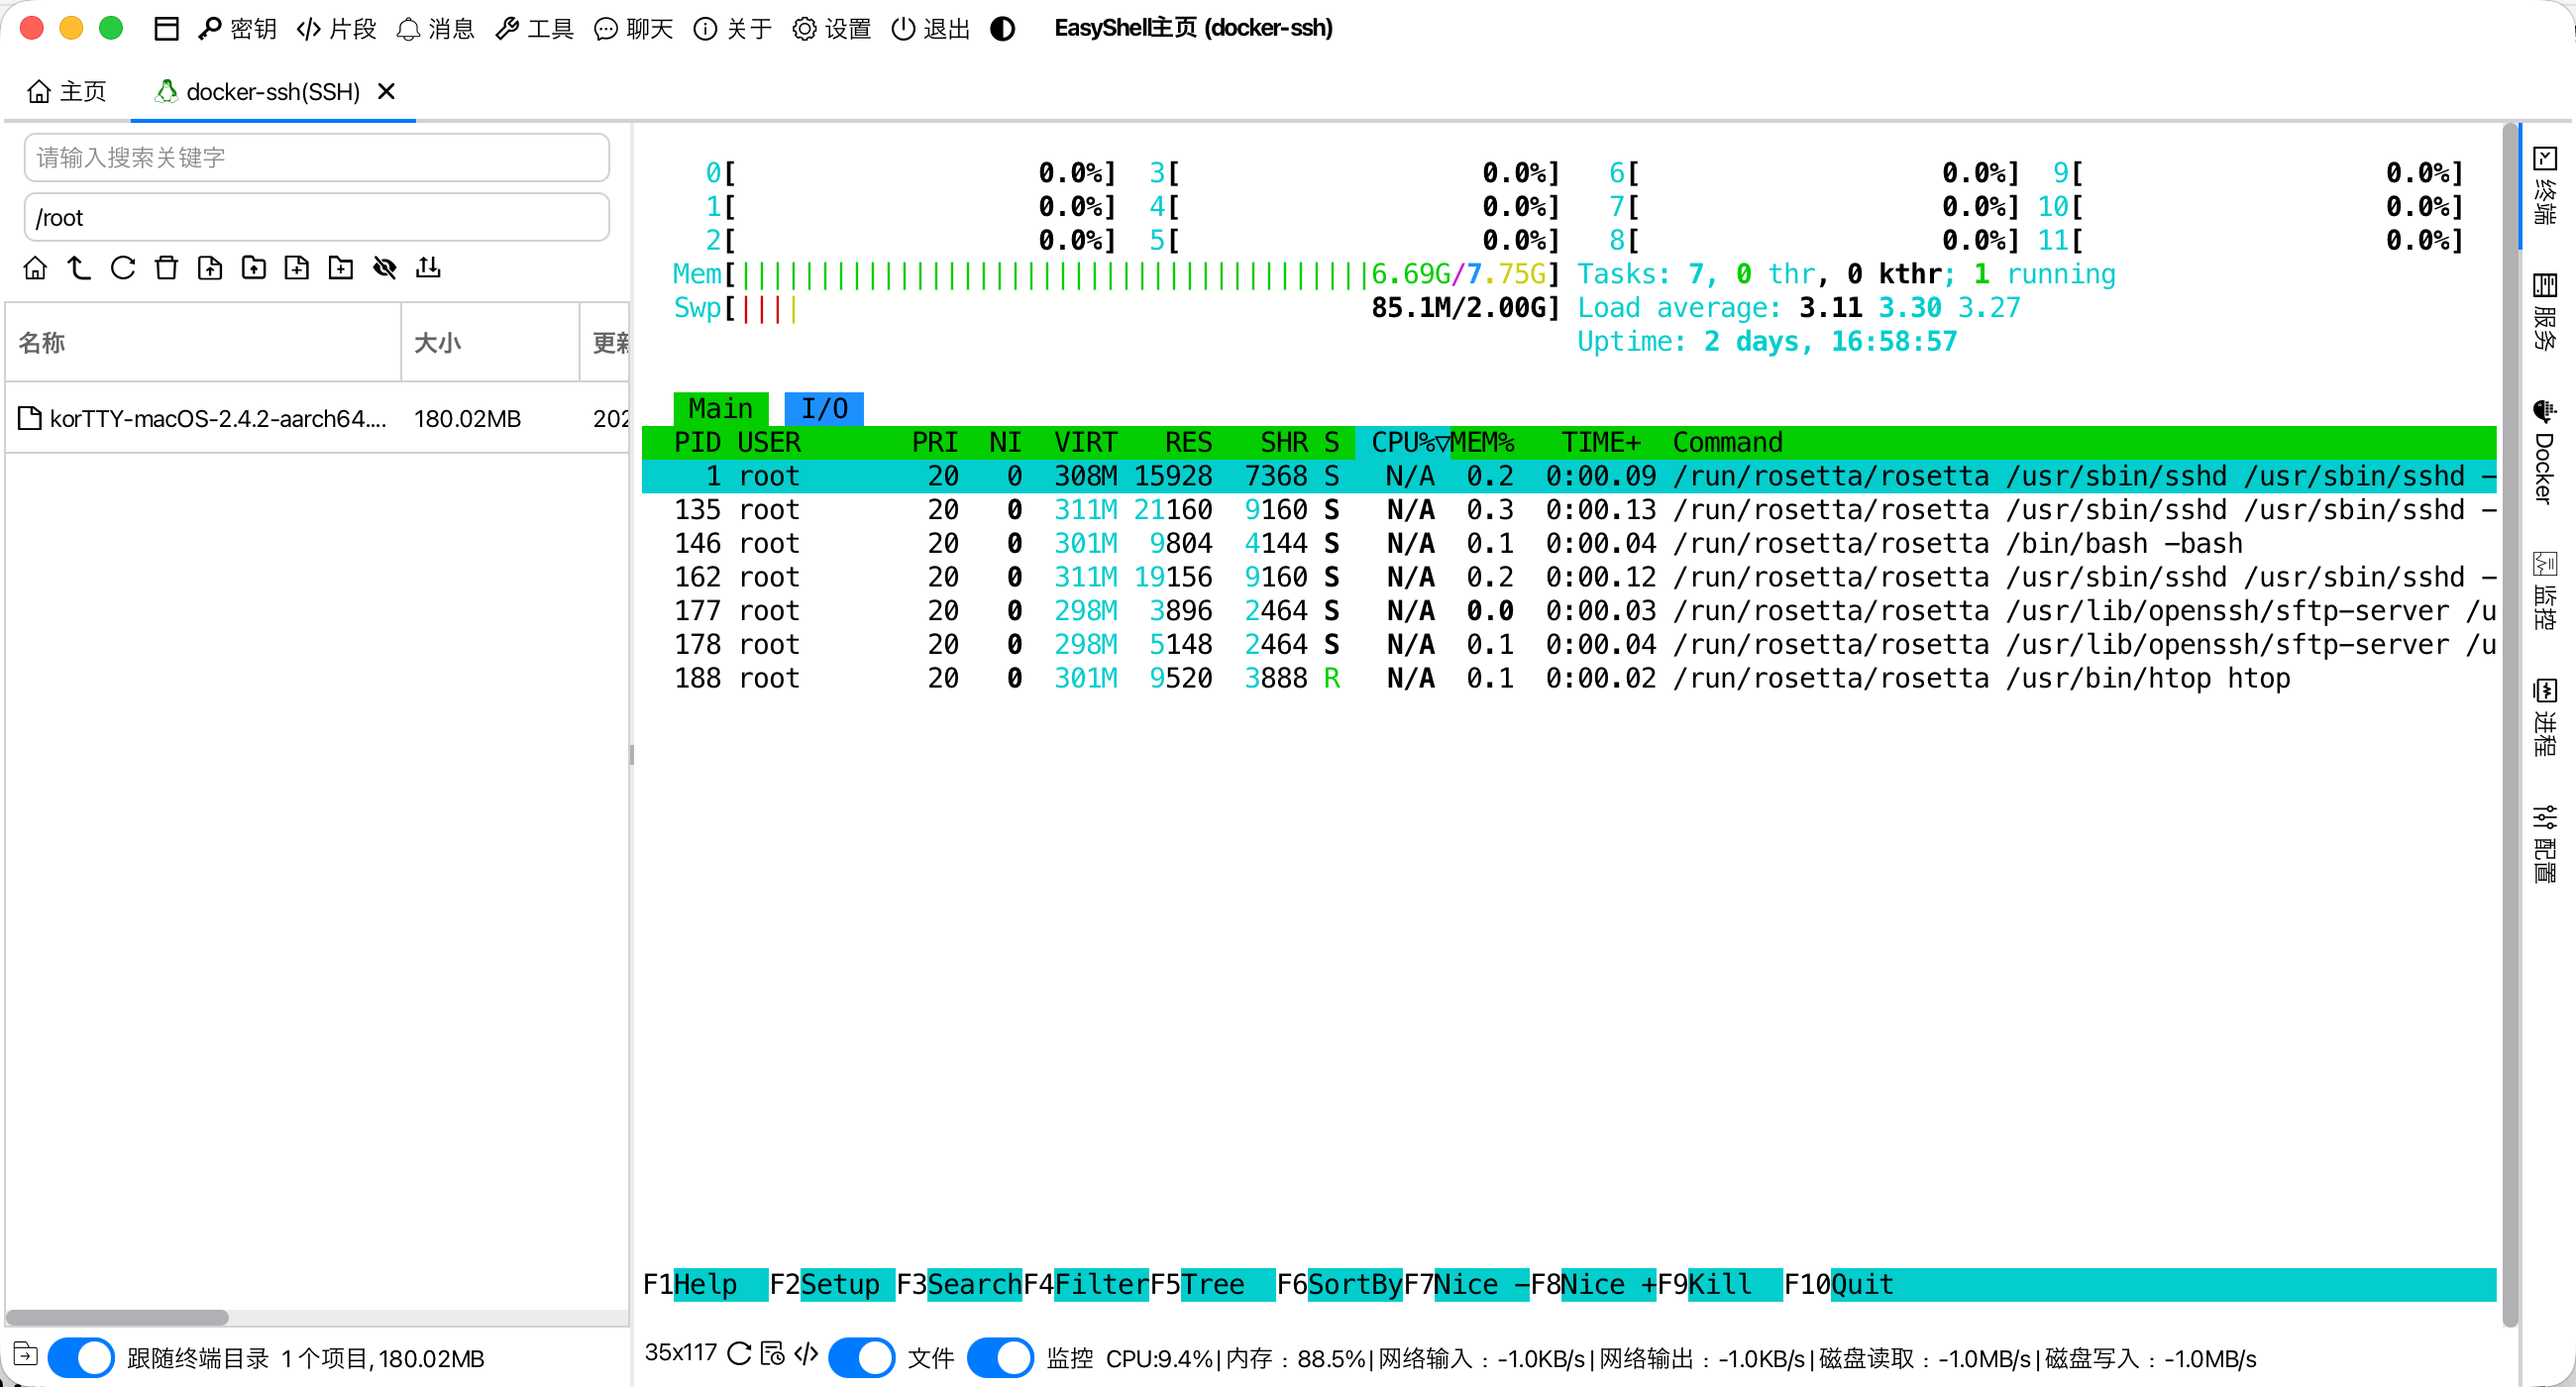
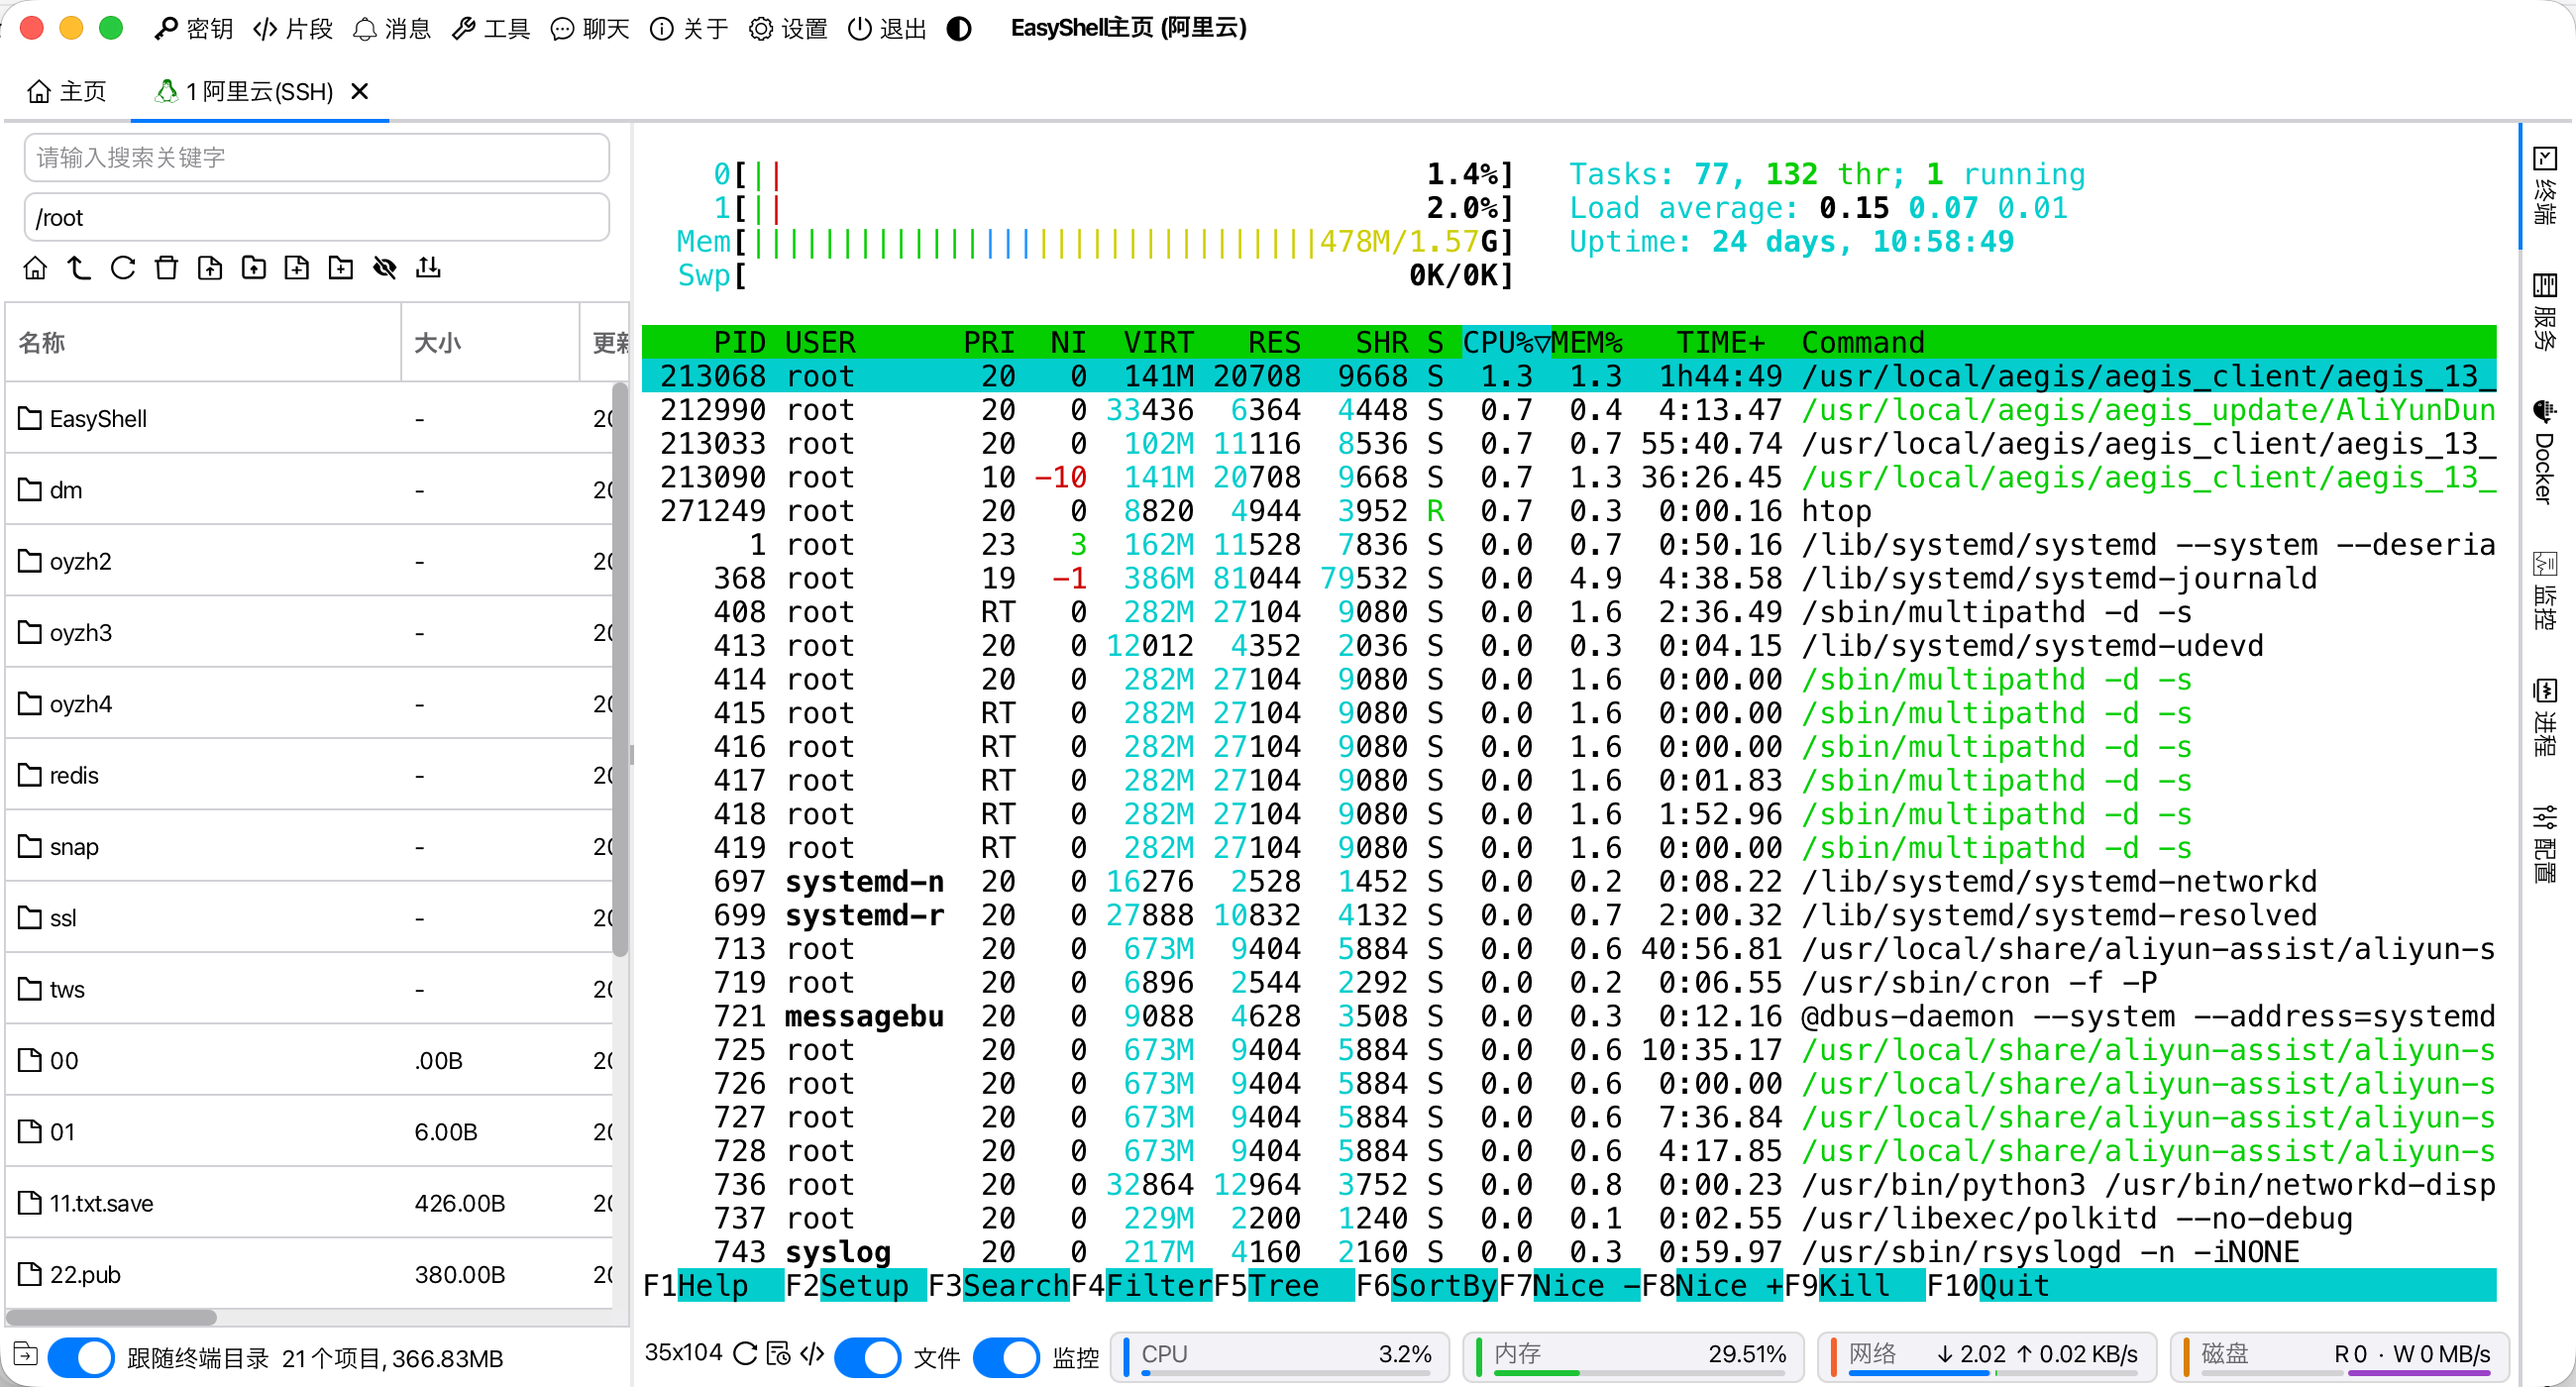
update: 程序截图 update: md

diff --git a/README.md b/README.md
@@ -49,6 +49,7 @@
 ### 主页
 ![zhuye1.png](resource/screenshot/zhuye1.png)
 ![zhuye2.png](resource/screenshot/zhuye2.png)
+![zhuye3.png](resource/screenshot/zhuye3.png)
 
 ### AI
 ![llm1.png](resource/screenshot/llm1.png)
@@ -62,6 +63,7 @@
 ![llm9.png](resource/screenshot/llm9.png)
 ![llm10.png](resource/screenshot/llm10.png)
 ![llm11.png](resource/screenshot/llm11.png)
+![llm12.png](resource/screenshot/llm12.png)
 
 ### 设置
 ![shezhi1.png](resource/screenshot/shezhi1.png)
